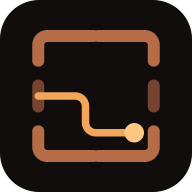
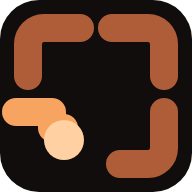
feat: refine luxury brand identity (#22)

diff --git a/_includes/brand-logo.html b/_includes/brand-logo.html
@@ -1,8 +1,8 @@
 <span class="brand-lockup">
   <svg class="brand-lockup__mark" aria-hidden="true" viewBox="0 0 48 48" width="48" height="48">
-    <path class="brand-lockup__frame" d="M5 14V8a3 3 0 0 1 3-3h12M43 14V8a3 3 0 0 0-3-3H28M5 34v6a3 3 0 0 0 3 3h12M43 34v6a3 3 0 0 1-3 3H28M5 20v9M43 20v9"/>
-    <path class="brand-lockup__signal" d="M5 25h10c2 0 3 1 3 3v4c0 2 1 3 3 3h16"/>
-    <circle class="brand-lockup__node" cx="37" cy="35" r="3"/>
+    <path class="brand-lockup__frame" d="M20 7h-9a4 4 0 0 0-4 4v8M28 7h9a4 4 0 0 1 4 4v8M41 28v9a4 4 0 0 1-4 4h-9"/>
+    <path class="brand-lockup__signal" d="M5 28h7a4 4 0 0 1 4 4v1a3 3 0 0 0 3 3"/>
+    <circle class="brand-lockup__node" cx="19" cy="36" r="4"/>
   </svg>
   <span class="brand-lockup__name">Smart Electrics</span>
 </span>

diff --git a/_sass/_components.scss b/_sass/_components.scss
@@ -37,7 +37,7 @@
 .brand-lockup {
   align-items: center;
   display: inline-flex;
-  gap: 0.76rem;
+  gap: 0.64rem;
 }
 
 .brand-lockup__mark {
@@ -51,7 +51,7 @@
   stroke: var(--copper);
   stroke-linecap: round;
   stroke-linejoin: round;
-  stroke-width: 3;
+  stroke-width: 6;
 }
 
 .brand-lockup__signal {
@@ -59,7 +59,7 @@
   stroke: var(--amber);
   stroke-linecap: round;
   stroke-linejoin: round;
-  stroke-width: 3;
+  stroke-width: 5;
 }
 
 .brand-lockup__node {
@@ -68,8 +68,8 @@
 
 .brand-lockup__name {
   font-size: 1.02rem;
-  font-weight: 600;
-  letter-spacing: -0.025em;
+  font-weight: 650;
+  letter-spacing: -0.035em;
   white-space: nowrap;
 }
 

diff --git a/docs/brand/similarity-screen.md b/docs/brand/similarity-screen.md
@@ -1,8 +1,13 @@
 # Basic web similarity screen
 
-Дата перевірки: 2026-08-22. Об’єкт перевірки: обраний знак Direction A — чотири
-розірвані мідні архітектурні сегменти та одна бурштинова траса з одним
-внутрішнім контрольним вузлом.
+Дата перевірки: 2026-08-22. Первинний об’єкт перевірки: обраний знак Direction
+A — чотири розірвані мідні архітектурні сегменти та одна бурштинова траса з
+одним внутрішнім контрольним вузлом.
+
+Чинний production-знак уточнено після цього screen: він має три розірвані
+фрагменти плану, одну трасу з одним входом та один вузол, відокремлений від
+нижнього правого фрагмента. Для цієї геометрії виконано окремий повторний
+screen 2026-08-23 нижче.
 
 Це обмежена візуальна перевірка відкритого вебу, **не юридичний trademark
 clearance**. Вона не замінює пошук у реєстрах за юрисдикціями, класами товарів
@@ -30,14 +35,36 @@ clearance**. Вона не замінює пошук у реєстрах за ю
 - [Letter C Circuit Tech template](https://designbundles.net/deascarlos/4213497-letter-c-circuit-tech-logo-design-vector) — близька категорійна template-лексика: C, квадрат і кілька circuit-відгалужень; не повторює композицію Direction A.
 - [Circuit Board templates](https://www.design.com/maker/tag/software/page29) — щільні orange-on-dark PCB-сітки й повні квадрати, на відміну від чотирьох розірваних кутів та однієї траси.
 
+## Повторний screen чинної геометрії — 2026-08-23
+
+Додаткові запити:
+
+- `"broken square" circuit node logo electrical`
+- `smart home electrical circuit logo broken square node`
+- `architectural plan circuit route logo automation`
+- image search: `broken square circuit node logo electrical automation`
+- image search: `architectural plan circuit logo smart home`
+
+Найближчі результати повторного screen:
+
+- [BrandCrowd software-logo survey](https://www.brandcrowd.com/blog/97-software-logos-for-high-tech-brands) містить симетричний circuit-square із кількома взаємопов’язаними трасами та центральним блоком. Категорія близька, але немає трьох окремих фрагментів, одного входу й одного внутрішнього вузла.
+- [Behance software-logo study](https://www.behance.net/gallery/145627797/software-logo) використовує два повернуті квадрати з terminal nodes і прихованою літерою `S`. Топологія та силует відрізняються від асиметричного плану Smart Electrics.
+- [NS Drafter brand asset](https://brandfetch.com/nsdrafter.com) має мінімалістичний квадратний контур із вирізом, але без керованої траси та вузла.
+- [Inductive Automation trademark listing](https://uspto.report/TM/88458774) показує куб із симетричними circuit-відгалуженнями до кількох вузлів. Спільною є лише широка automation/circuit категорія.
+- [PLCnext Technology](https://www.phoenixcontact.com/en-de/products/plcnext-technology) використовує rounded-square контейнер і angle-bracket мотив; траси, node та архітектурного плану немає.
+- [Smart Home Circuit template](https://www.brandcrowd.com/maker/logo/smart-home-circuit-8782165/details) є буквальним будинком із розгалуженою circuit-сіткою — саме від такої категорійної форми production-знак відмовляється.
+
 ## Висновок і застосоване уточнення
 
-У цій вибірці точного або особливо близького композиційного збігу не знайдено.
-Orange/copper-on-black, circuit trace, terminal circle і rounded-square tile є
-поширеною категорійною мовою, тому практичний ризик візуальної схожості
-оцінено як **низький–помірний**, особливо для icon-only використання у 16–32 px.
+У двох відкритих веб-вибірках точного або особливо близького композиційного
+збігу для топології «три фрагменти + один вхід + одна траса + один вузол» не
+виявлено. Водночас broken-square, circuit trace, terminal circle і
+rounded-square tile є поширеною категорійною мовою. Практичний ризик візуальної
+схожості лишається **помірним** для icon-only використання у 16–32 px, де
+відмінні деталі стискаються.
 
-Щоб посилити відмінність, фінальний вузол зміщено всередину й від’єднано від
-правого периметра. Знак має зберігати рівно одну трасу й один вузол; не слід
-додавати дах, Wi-Fi, блискавку, вилку, circuit-tree або літерну форму. Перед
-реєстрацією чи дорогим фізичним тиражем потрібна професійна перевірка.
+Production-вимога: зберігати рівно три фрагменти плану, одну трасу й один
+вузол; не додавати дах, Wi-Fi, блискавку, вилку, circuit-tree або літерну форму.
+Цей screen не перевіряє реєстри, статуси прав чи confusing similarity. Перед
+реєстрацією або дорогим фізичним тиражем потрібен професійний пошук за чинною
+геометрією, юрисдикціями, класами товарів і послуг.

diff --git a/docs/brand/logo-brief.md b/docs/brand/logo-brief.md
@@ -5,8 +5,8 @@
 - symbol plus title-case wordmark `Smart Electrics`;
 - no tagline in the primary lockup;
 - dark-first copper and warm-amber palette with light and monochrome variants;
-- exact architectural geometry with softened corners;
-- the idea of a measured plan carrying one controlled electrical impulse;
+- exact architectural geometry with softened corners and a strong square silhouette;
+- the idea of an interrupted measured plan carrying one controlled electrical impulse;
 - legible icon-only forms for favicon and compact navigation.
 
 The mark must avoid literal houses, plugs, bulbs, lightning bolts, generic
@@ -21,3 +21,9 @@ and refines one production direction based on distinctiveness, small-size
 legibility, brand fit, adaptability, and basic web similarity screening. This
 screen is not trademark clearance; professional legal review remains necessary
 before registration or high-cost rollout.
+
+The selected production direction is **Interrupted plan / one entry**. Three
+structural plan fragments, one routed signal and one node remain recognizable
+without relying on an `S`/`E` monogram or on color alone. Generated concept
+sheets are ideation evidence only; production geometry is manually rebuilt as
+path and shape based SVG.

diff --git a/output/playwright/README.md b/output/playwright/README.md
@@ -6,6 +6,13 @@ below.
 - `logo-concepts.png` — three independent throwaway directions used for the
   selection decision; only Direction A was recreated as production artwork;
   captured on 2026-08-22.
+- `logo-identity-sizes.png` — owner-facing proof of the refined canonical mark
+  and the dedicated micro favicon at 16, 24, 32 and 48 CSS px on dark and light
+  environments; captured in real Chromium on 2026-08-23.
+- `logo-identity-header-375.png`, `logo-identity-header-1440.png`,
+  `logo-identity-header-1980.png` — cropped header renders from the complete
+  responsive width matrix, confirming lockup scale, spacing and navigation
+  fit after the identity refinement; captured in real Chromium on 2026-08-23.
 - `home-375.png`, `home-768.png`, `home-1024.png`, `home-1440.png`,
   `home-1980.png` — the luxury control-centre homepage at the complete
   Chromium matrix (`375×812`, `768×1024`, `1024×768`, `1440×1000`,
